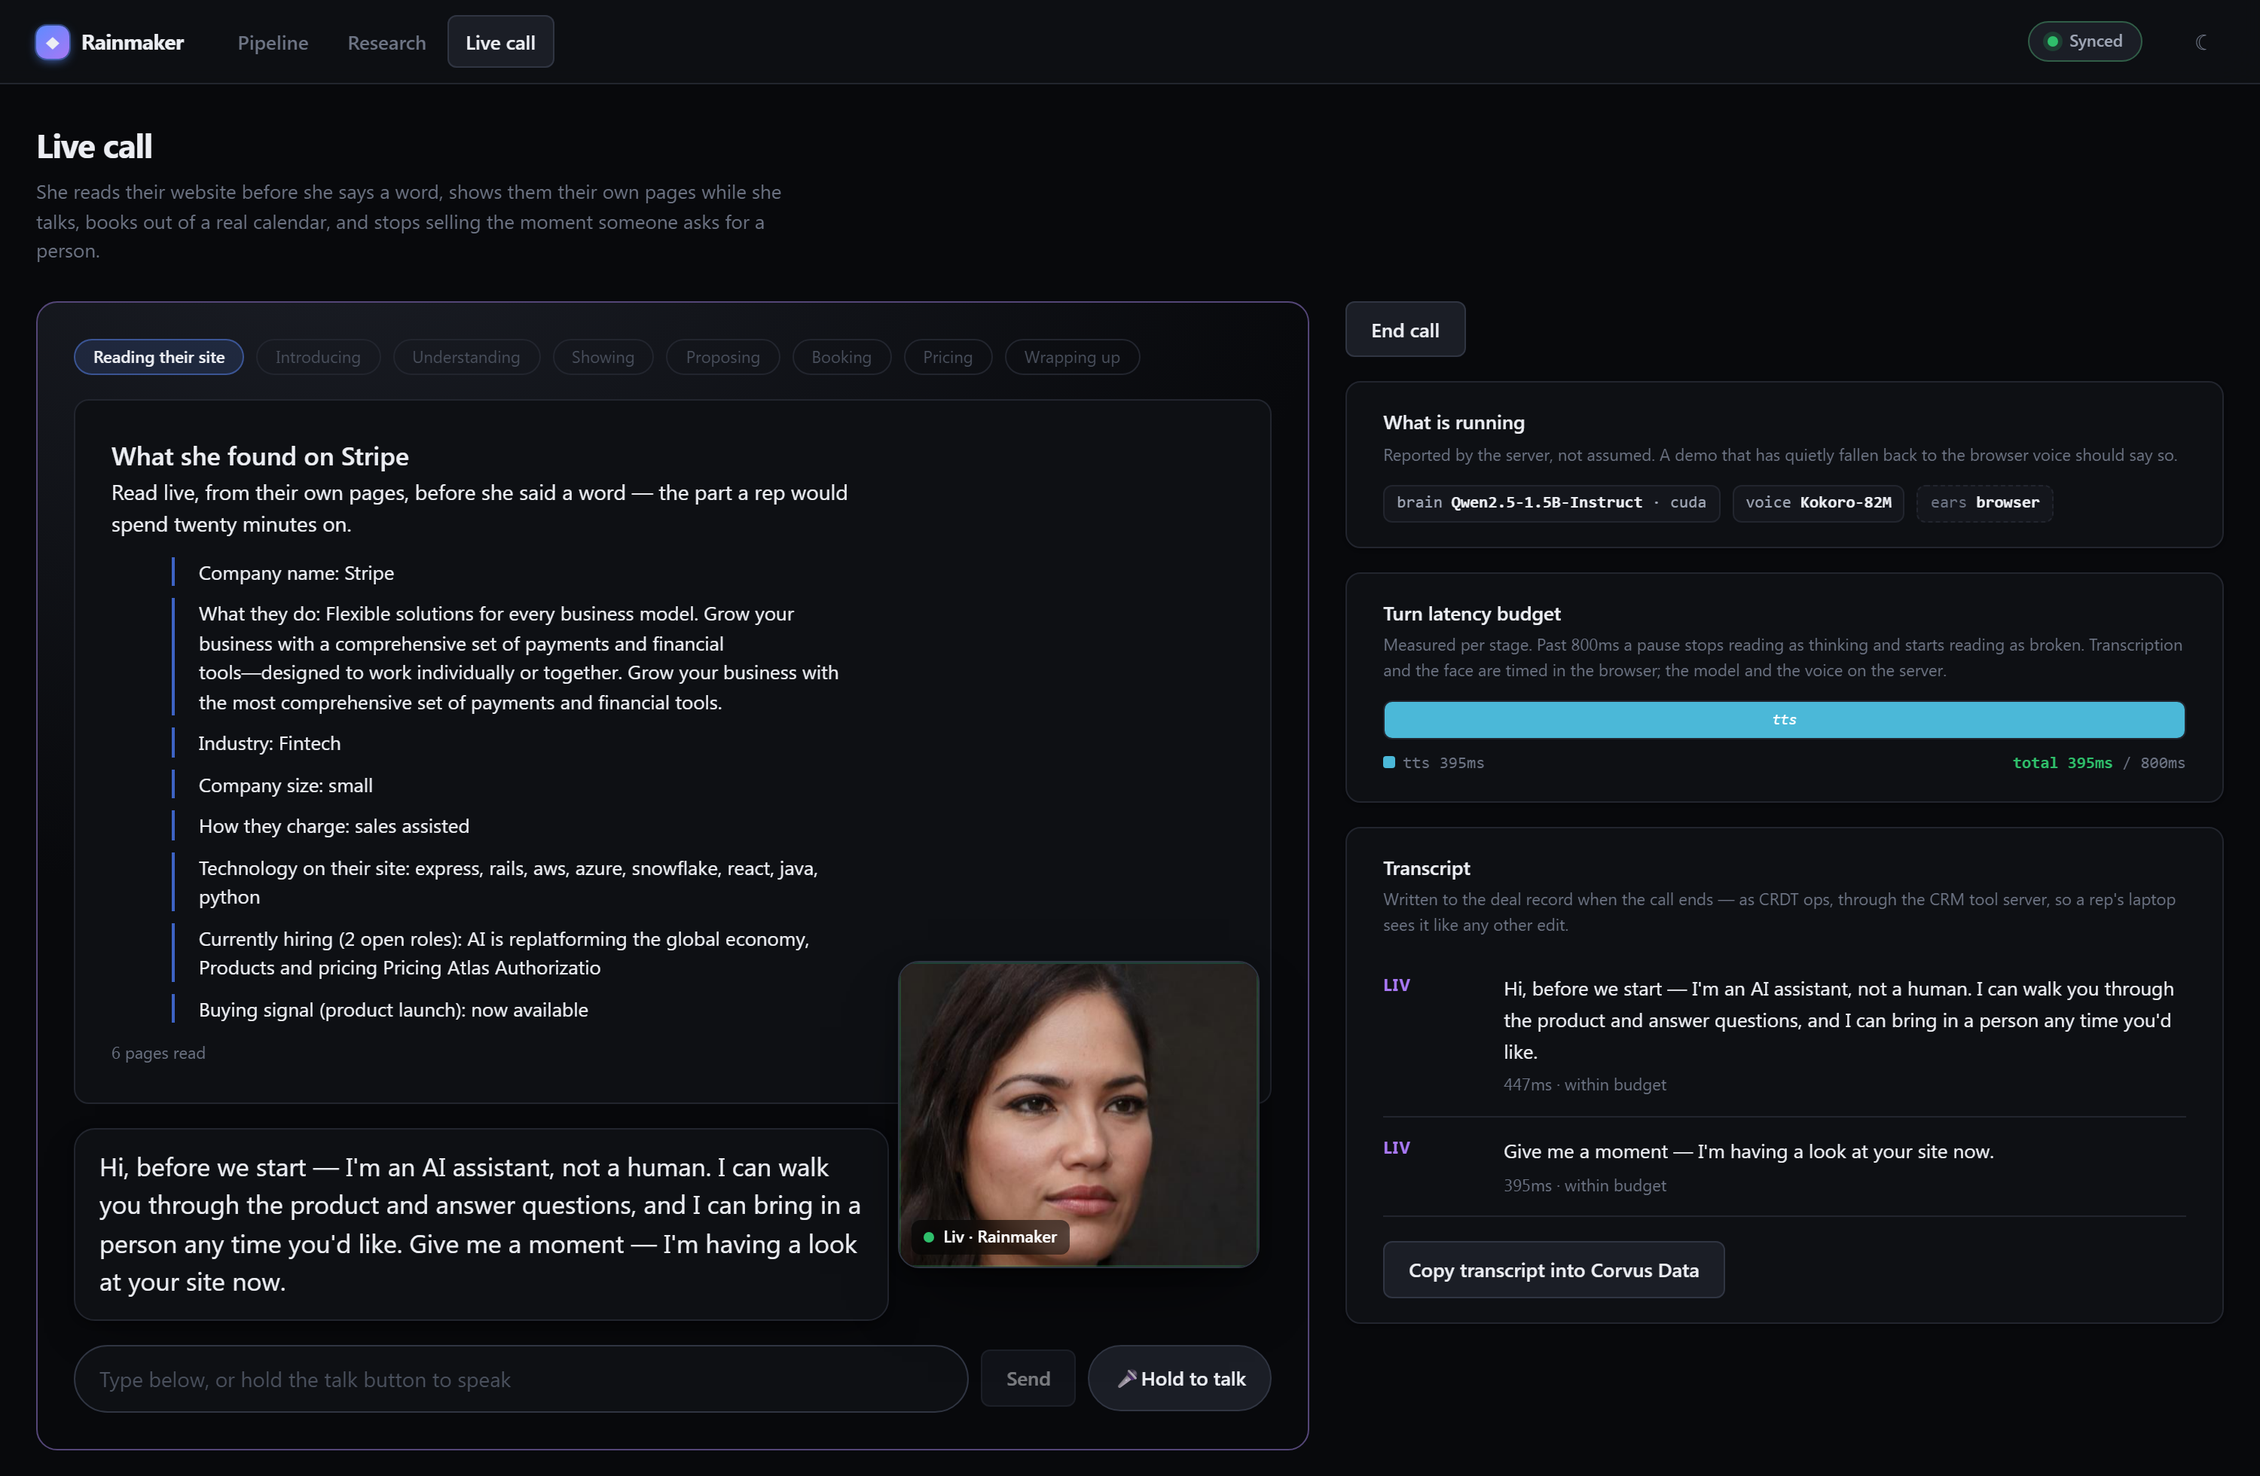
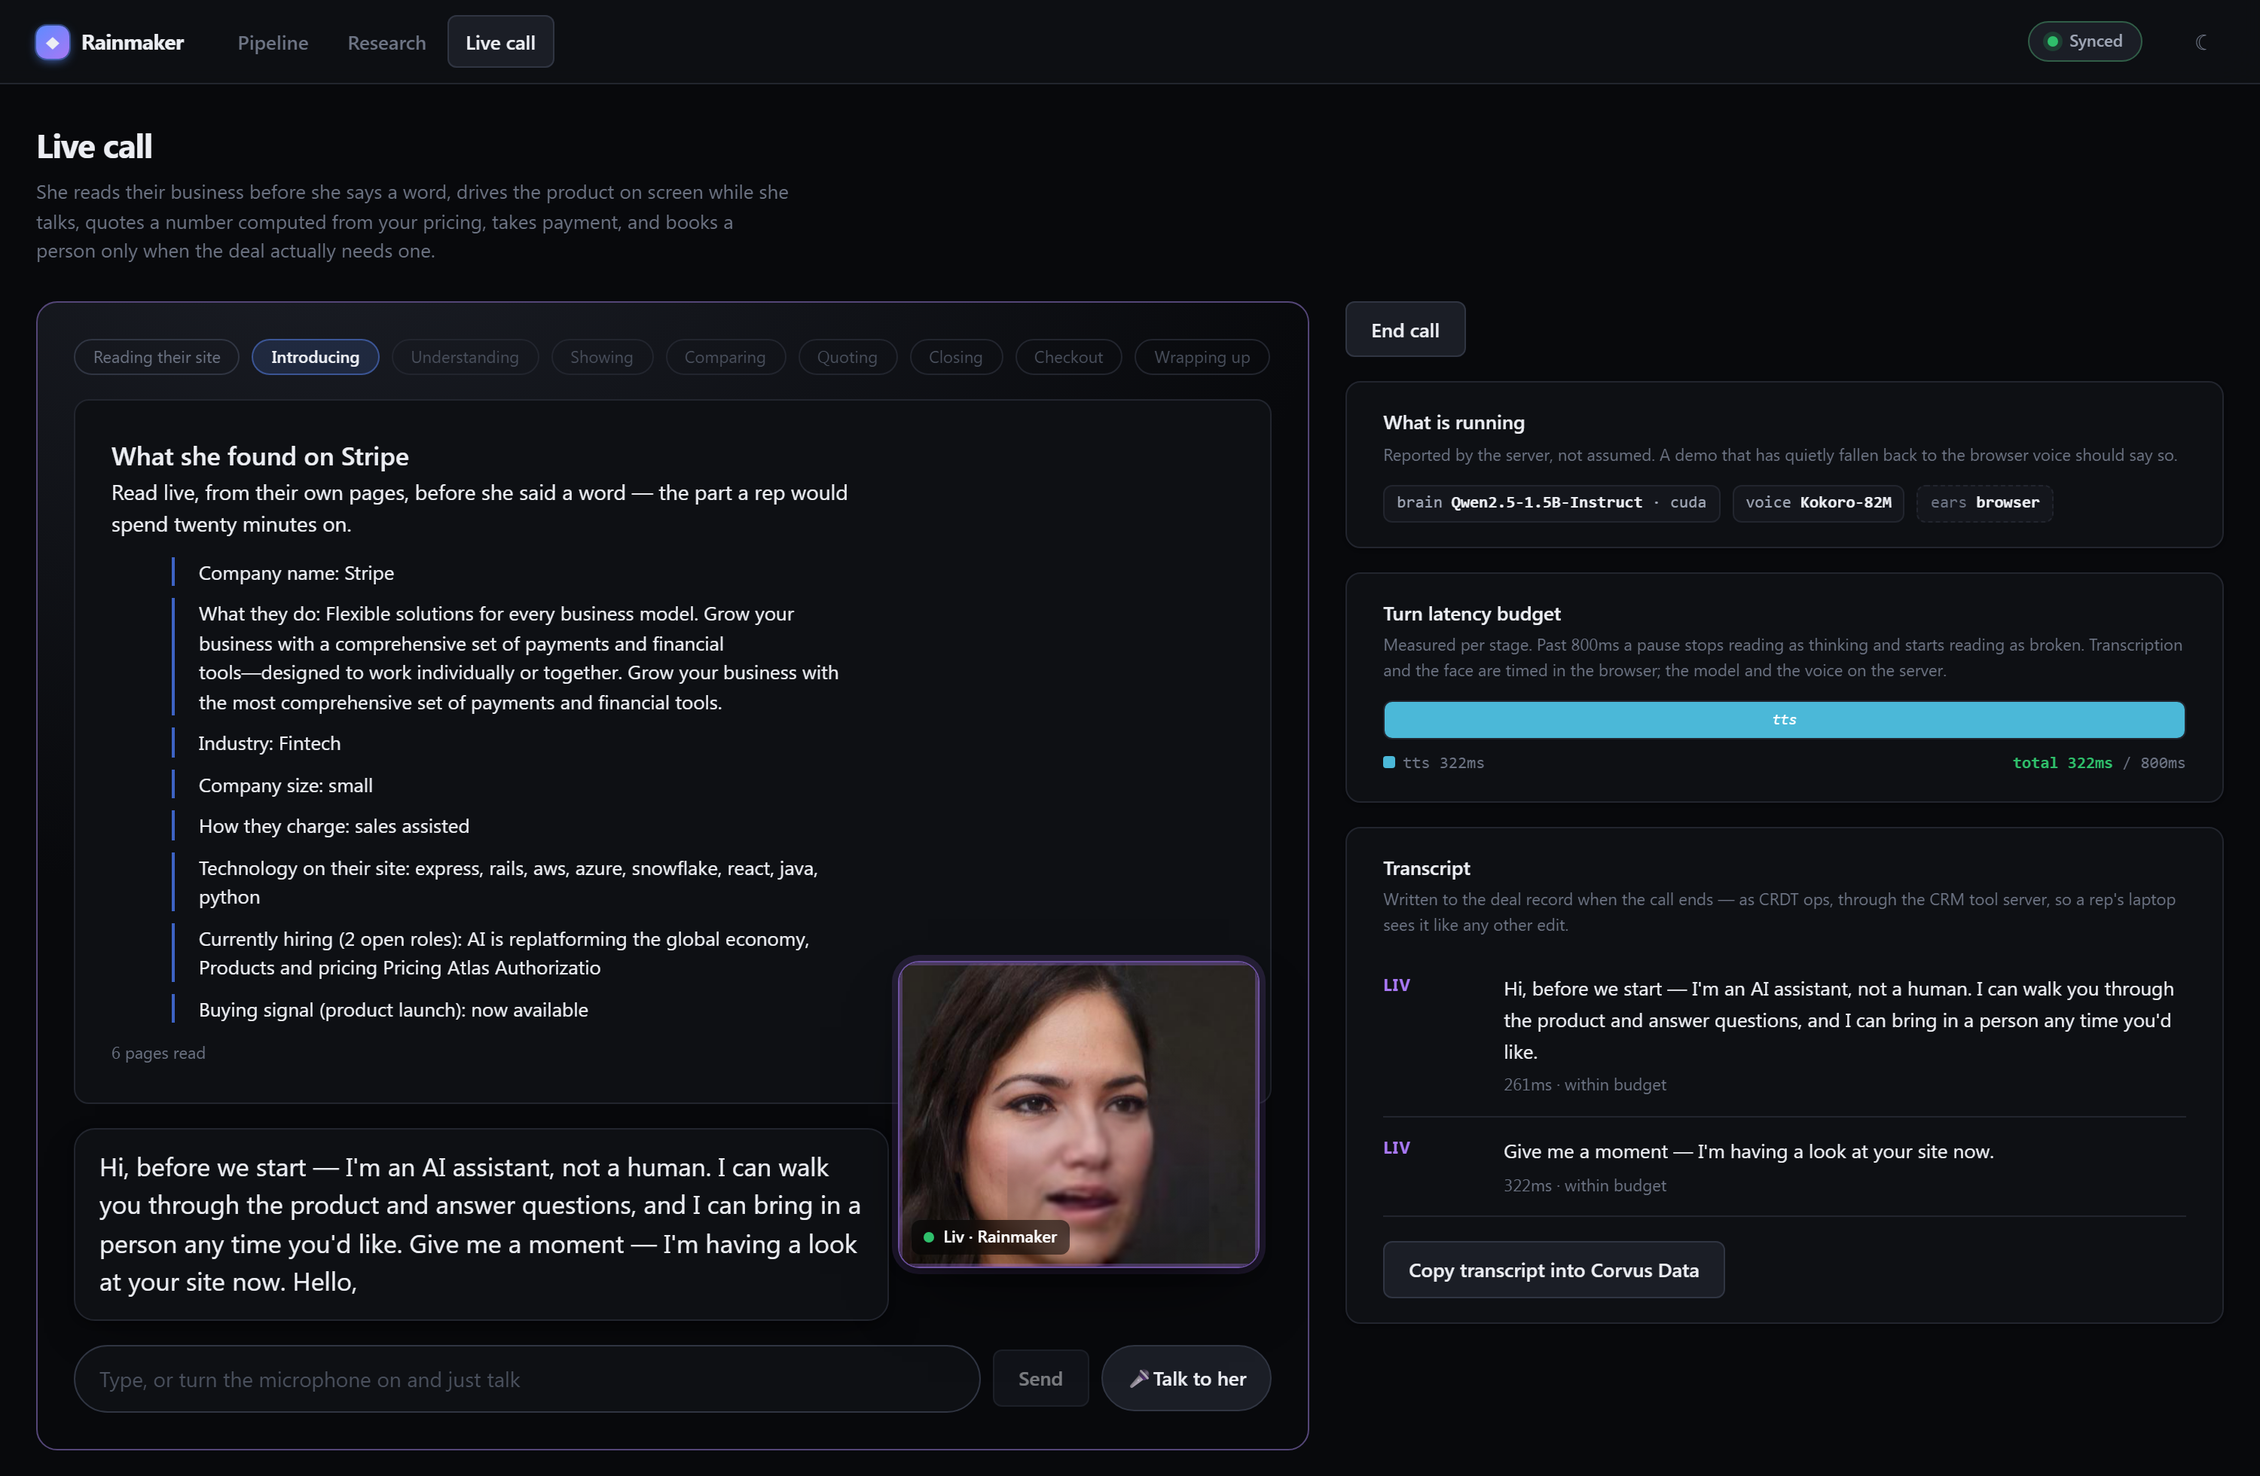
docs: regenerate the screenshots, and let an operator raise the rate limit
The README's call shots still showed the one-field intake and a flow that ended
at a booking. They are the first thing anybody looks at, so they were showing a
product that no longer exists. Regenerated, plus two new ones: the quote with its
arithmetic visible, and the checkout.

Regenerating them is what found the rate limit. The script drives eight calls in
a few minutes from one machine, and the seventh was refused by a cap written for
a stranger on a customer's marketing site — correct behaviour, and an operator
had no way past it except editing the source, which is the worst version of a
rate limit. The three counts now read from the environment, and nonsense in the
variable falls back to the default rather than quietly removing the ceiling.

ARCHITECTURE.md picks up the two decisions it was missing — why the price guard
is a filter rather than a prompt, and why the payment step ships with a mock that
can be clicked through rather than a stub — plus the three bugs this stretch
found.

diff --git a/services/api/src/rainmaker/calls/admission.py b/services/api/src/rainmaker/calls/admission.py
@@ -29,21 +29,42 @@ assuming it scales.
 
 from __future__ import annotations
 
+import os
 import time
 from collections import deque
 from dataclasses import dataclass, field
 
+
+def _limit(name: str, fallback: int) -> int:
+    """A limit, overridable by environment.
+
+    THE NUMBERS BELOW ARE DEFAULTS, NOT PHYSICS, and they were unreachable until something
+    legitimate needed to exceed them: regenerating the README's screenshots drives eight calls
+    in a few minutes from one machine, and the seventh was refused by a cap meant for a stranger
+    on a customer's marketing site. A rate limit that cannot be raised for an operator is a rate
+    limit somebody edits the source to get past, which is worse than one with a knob on it.
+    """
+    raw = os.environ.get(name, "").strip()
+    if not raw:
+        return fallback
+    try:
+        value = int(raw)
+    except ValueError:
+        return fallback
+    return value if value > 0 else fallback
+
+
 #: How many calls one agent may have running at once. The ceiling is the GPU, not the plan:
 #: Qwen holds ~3.1GB, Kokoro takes CPU, and lip-sync runs on the same card, so a laptop-class
 #: box serves one or two conversations before everybody is waiting.
-DEFAULT_CONCURRENT = 2
+DEFAULT_CONCURRENT = _limit("RAINMAKER_MAX_CONCURRENT_CALLS", 2)
 
 #: One visitor, per hour. A real prospect might reload, change their mind, come back after
 #: lunch. Six is past all of that and well short of a loop.
-DEFAULT_PER_VISITOR_HOURLY = 6
+DEFAULT_PER_VISITOR_HOURLY = _limit("RAINMAKER_CALLS_PER_VISITOR_HOUR", 6)
 
 #: One agent, per hour, across every visitor. This is the number a subscription tier sells.
-DEFAULT_PER_AGENT_HOURLY = 60
+DEFAULT_PER_AGENT_HOURLY = _limit("RAINMAKER_CALLS_PER_AGENT_HOUR", 60)
 
 #: A single call. Twenty minutes is longer than any real first call; the cap exists for the tab
 #: somebody left open, not for the conversation somebody is having.

diff --git a/services/api/tests/test_admission.py b/services/api/tests/test_admission.py
@@ -149,3 +149,37 @@ class TestWhoTheVisitorIs:
 
     def test_an_empty_forwarded_header_falls_back(self):
         assert visitor_id("10.0.0.1", "") == "10.0.0.1"
+
+
+class TestTheLimitsCanBeRaisedWithoutEditingTheSource:
+    """A rate limit an operator cannot raise is a rate limit somebody edits the source to get
+    past. Found the honest way: regenerating the README drives eight calls from one machine in a
+    few minutes, and the seventh was refused by a cap written for a stranger on a marketing site.
+    """
+
+    def test_an_override_is_read_from_the_environment(self, monkeypatch: pytest.MonkeyPatch):
+        import importlib
+
+        monkeypatch.setenv("RAINMAKER_CALLS_PER_VISITOR_HOUR", "400")
+        module = importlib.reload(importlib.import_module("rainmaker.calls.admission"))
+        try:
+            assert module.DEFAULT_PER_VISITOR_HOURLY == 400
+        finally:
+            monkeypatch.delenv("RAINMAKER_CALLS_PER_VISITOR_HOUR")
+            importlib.reload(module)
+
+    @pytest.mark.parametrize("raw", ["", "   ", "lots", "0", "-3", "3.5"])
+    def test_nonsense_falls_back_to_the_default_rather_than_disabling_the_limit(
+        self, raw: str, monkeypatch: pytest.MonkeyPatch
+    ):
+        """A typo in an environment variable must not quietly remove the ceiling. `0` is the
+        dangerous one: read literally it admits nobody, and read carelessly it means unlimited."""
+        import importlib
+
+        monkeypatch.setenv("RAINMAKER_CALLS_PER_VISITOR_HOUR", raw)
+        module = importlib.reload(importlib.import_module("rainmaker.calls.admission"))
+        try:
+            assert module.DEFAULT_PER_VISITOR_HOURLY == 6
+        finally:
+            monkeypatch.delenv("RAINMAKER_CALLS_PER_VISITOR_HOUR")
+            importlib.reload(module)

diff --git a/ARCHITECTURE.md b/ARCHITECTURE.md
@@ -11,6 +11,12 @@
                                          ▼
    prospect ◄── WebSocket ►  closer agent  ─── transcript, outcome ───┐
                             (text/speech in, Qwen → Kokoro out)       │
+                                    │                                 │
+                     ┌──────────────┼──────────────┐                  │
+                     ▼              ▼              ▼                  │
+              tour: a browser   quote: arith-   payments: a hosted    │
+              on the SELLER's   metic over      checkout. No card     │
+              own pages         published rates ever reaches us       │
                                                                       ▼
    rep's laptop                                              ┌────────────────┐
    ┌──────────────────────────────┐      ops (WS or POST)    │  op log        │
@@ -44,7 +50,8 @@ apps/console/            React 18. Renders a replica; never fetches to read.
 services/api/
   research/              fetch (policy) → extract (deterministic) → schema (provenance)
   sync/                  oplog (durable) + hub (relay, backpressure)
-  calls/                 turn loop, latency budget, disclosure
+  agents/                specs, versions, publishing; quoting.py does the arithmetic
+  calls/                 turn loop, latency budget, disclosure, admission, the agenda
   crm/                   read-only materialisation
   app.py                 the three HTTP surfaces
 ```
@@ -143,6 +150,46 @@ the one path where latency is visible. The browser's recogniser is free, streams
 leaves the CPU to the two models that need it. The cost is real and stated in the console:
 Chrome sends microphone audio to Google. Typing is the offline path.
 
+### The model may not state a figure, and it is a filter rather than a prompt
+
+Rejected: telling the model not to. That is what the prompt already said, and it is what every
+guide on grounding recommends, and it does not work — asked what capacity was available, a
+1.5B model answered "starting from $50 per GPU per hour" about a product that charges $2.40.
+
+Rejected: refusing to synthesise a whole turn containing a figure. The buyer then hears silence
+where an answer should be, and the failure is invisible to everyone except them.
+
+Taken: a streaming filter on the model's tokens only, replacing a figure before it can reach
+synthesis. The platform's own computed sentences — the quote, the checkout, the times offered —
+never pass through it, which is the actual invariant: **the platform may state a number it
+worked out, and the model may not state one at all.**
+
+The cost is a hold on the token stream, and it is scoped to earn it: text waits only while it
+could still be becoming a figure. A turn with no numbers is not delayed at all, and "sixty-four
+nodes are free" is delayed by one word. A fixed window would have been four lines shorter and
+would have stalled every sentence containing a digit — on an agent whose job includes reading
+out live capacity.
+
+### The amount comes from the quote, and the agent never sees a card
+
+An agent that invents a meeting wastes a slot. An agent that invents an amount takes somebody's
+money, and there is no version of that which an apology fixes.
+
+So the amount handed to the payment server is arithmetic over the tenant's published rates, and
+the checkout is hosted: the buyer enters their card on the processor's page, on the processor's
+domain. Nothing here, nothing in the model's context and nothing in a transcript ever contains a
+card number, which keeps the product out of PCI scope rather than in it and managed. The tools
+have no parameter that could carry one, and a test asserts that.
+
+Rejected: a stub for the payment step. A payment step nobody can click through is a payment step
+nobody has debugged, so the default provider is a mock that persists real intents, enforces the
+same invariants, and serves a real page — and is what the tests run against. A key swaps it for
+Stripe, and `mark_paid` then refuses outright, because there the processor's webhook is the only
+thing allowed to say a checkout was paid.
+
+There is a ceiling above which the agent will not charge at all; it reports and offers a person.
+Not a technical limit — an agent that can raise an unbounded charge is a headline.
+
 ### The API materialiser does not implement RGA
 
 It returns note *lengths*, not merged text. A second sequence CRDT is where drift would be worst
@@ -172,6 +219,21 @@ same domain twice reported every skip twice and the agent was not idempotent.
 **5. No offline cold start.** The screenshot script tried to reload with the network severed and
 got `ERR_INTERNET_DISCONNECTED` — proving the app could not boot offline despite all the local
 data being present. Fixed with a service worker; the shot is now in the README as evidence.
+
+**6. A price the model invented, said out loud.** Found by driving a real call rather than by a
+test: asked what capacity was available, the model quoted $50 per GPU-hour for a product priced
+at $2.40. Every other part of the design was already correct, and the prompt already forbade it.
+Nothing was checking, and a rule the model is asked to follow is a request. See the filter above.
+
+**7. A demo agent frozen at whatever was seeded first.** `seed` returned early whenever any
+version was live, so a change to the agent's tour or competitors never reached the running one.
+The symptom was not an error: the comparison step fell through to the model and the tour was
+empty, silently, on a database nobody thought to look at. Idempotent is not the same as inert.
+
+**8. The word "seat", compiled in.** The quote read out "for 40 seats" because the platform had
+only ever had one tenant, who sold seats. Discovered by configuring a second one that sells
+GPU-hours — which is the entire reason to keep a second tenant that is not a reskin of the
+first.
 
 ---
 

diff --git a/README.md b/README.md
@@ -7,7 +7,7 @@
 [![ci](https://github.com/tasnimuldatascience/rainmaker/actions/workflows/ci.yml/badge.svg)](https://github.com/tasnimuldatascience/rainmaker/actions/workflows/ci.yml)
 [![python](https://img.shields.io/badge/python-3.12+-3776ab?logo=python&logoColor=white)](services/api/pyproject.toml)
 [![typescript](https://img.shields.io/badge/typescript-5.6-3178c6?logo=typescript&logoColor=white)](packages/crdt)
-[![tests](https://img.shields.io/badge/tests-473%20passing-22863a)](#tests)
+[![tests](https://img.shields.io/badge/tests-480%20passing-22863a)](#tests)
 [![license](https://img.shields.io/badge/license-MIT-22863a)](LICENSE)
 
 <br>
@@ -123,6 +123,7 @@ STRIPE_SECRET_KEY=sk_…     # take real money instead of the local mock checkou
 OUR_CATEGORY="vector search,learning-to-rank"   # rank job posts mentioning these highest
 RAINMAKER_VOICE=browser    # force the fallback voice, to hear the difference
 RAINMAKER_MAX_CHARGE=…     # the ceiling above which a person has to sign, in minor units
+RAINMAKER_CALLS_PER_VISITOR_HOUR=…   # raise the rate limit; the screenshot script needs this
 ```
 
 ---
@@ -249,13 +250,20 @@ back at them. The prompt now names both companies and says which one owns the pa
 tenant wrote. A comparison table a language model composed about a named competitor is a
 defamation risk with a grid layout.
 
-**4 — Then her number.** Seats from what they said, rate and discount from published pricing,
+**4 — Then her number.** Quantity from what they said, rate and discount from published pricing,
 computed in code — and the sentence that states it is written in code too, the way the calendar
 writes its own times. The model is told the figure is already said and asked to do the one thing
 it is good at: ask whether it works.
 
+<img src="docs/img/quote.png" alt="A quote on screen, with the arithmetic under it" width="100%">
+
+It is also the only place the model is *prevented* rather than instructed: see
+[the price guard](#the-graph-decides-the-model-writes).
+
 **5 — And a checkout.** A hosted page on the payment provider's domain. The agent never sees a
 card, which is what keeps card data out of this product entirely rather than in it and managed.
+
+<img src="docs/img/checkout.png" alt="A hosted checkout for the agreed amount" width="100%">
 
 **6 — A person, if the deal actually needs one.**
 
@@ -488,10 +496,10 @@ worse than the call it prevented.
 
 ```bash
 npm test                       # 53 tests — syncing, text editing, the call surface
-pytest                         # 420 tests — research, syncing, the API, the live call, the tools
+pytest                         # 427 tests — research, syncing, the API, the live call, the tools
 ```
 
-473 tests in total. None of them load a language model: a test that spends six seconds on
+480 tests in total. None of them load a language model: a test that spends six seconds on
 Qwen to check that a WebSocket sends JSON is testing Qwen.
 
 | Test file | What it protects |
